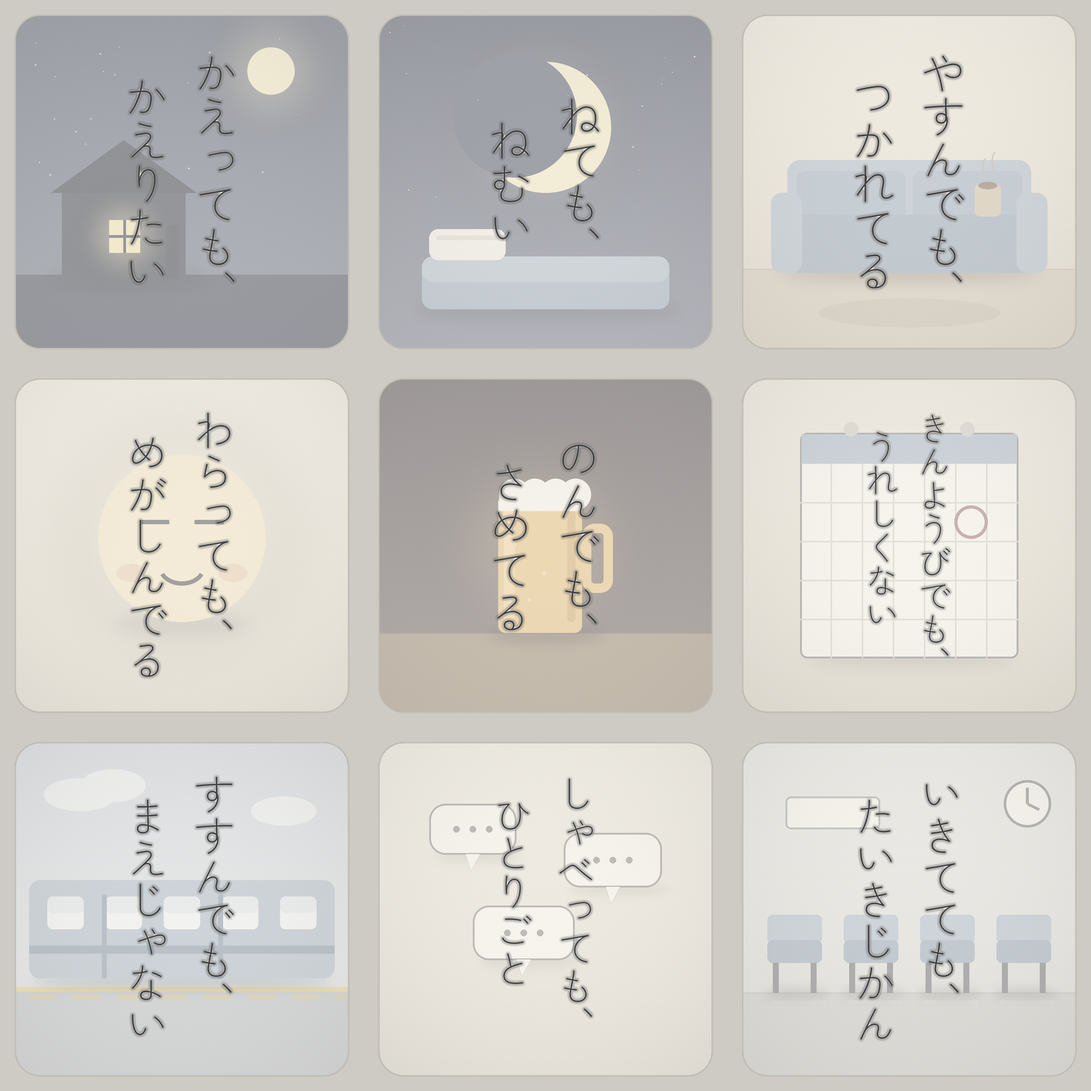
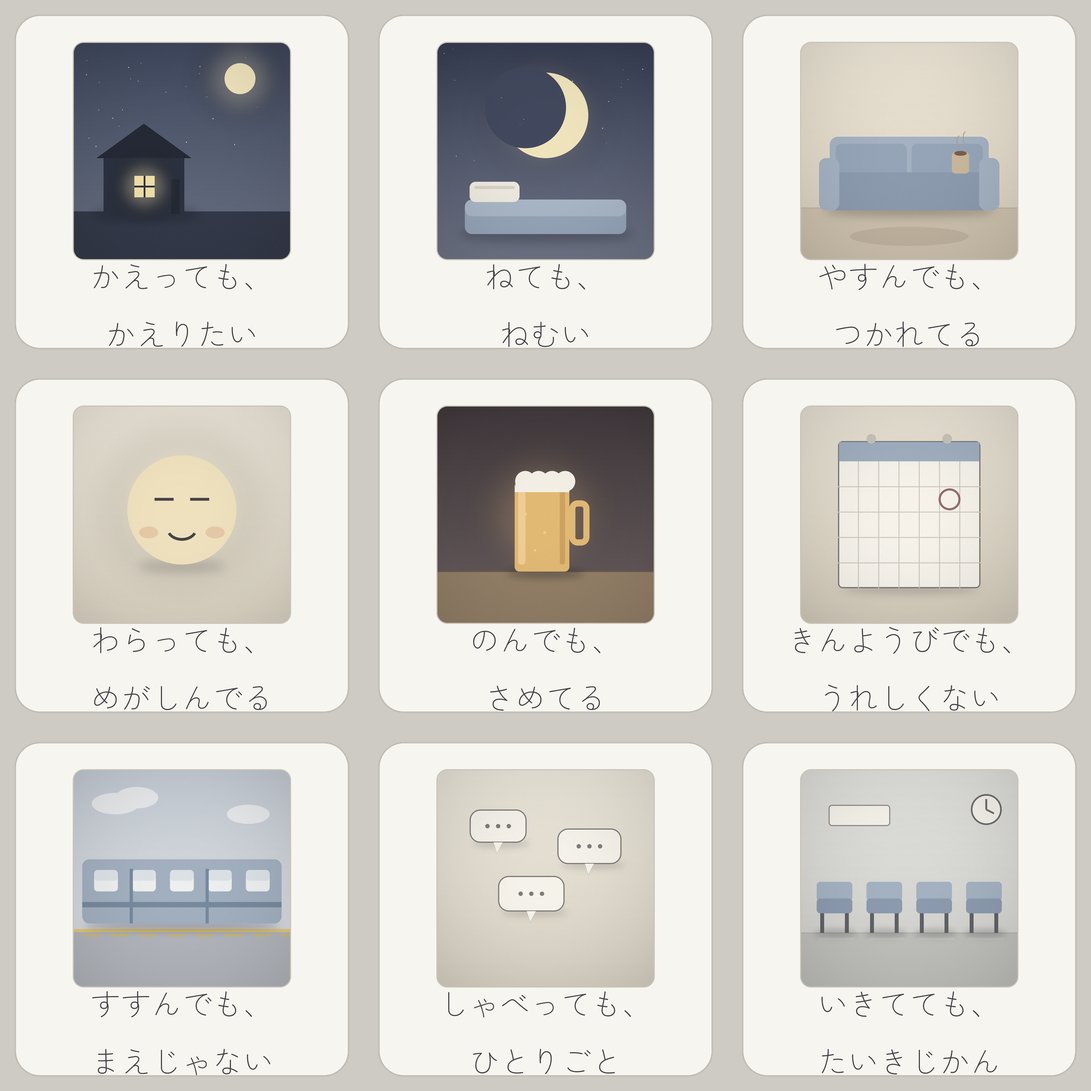
絵と文字を重ねない分離レイアウト版を追加
生成りの角丸台座の上部に情景イラストの角丸窓、下部に
横書き2行の言葉を置くポストカード型。イラストはスクリム
なしの原色で見せる。

Claude-Session: https://claude.ai/code/session_01Hth1TDsqnV3mvtVRGZwAwr

diff --git a/stickers/generate.py b/stickers/generate.py
@@ -2,10 +2,10 @@
 """「〜ても、シリーズ」ステッカー入稿データ生成スクリプト
 
 SUZURI入稿用の透過PNG(2000x2000)を stickers/png/ に出力する。
-デザインはリッチ背景版: 各フレーズに合わせた情景イラストを
-グラデーション・光・影・紙のような粒子感つきで描き、生成りの
-薄いスクリムをかけて縦書き2列の言葉を重ねる。1枚ものなので
-カットラインは外周1本。
+デザインは分離レイアウト版: 生成りの角丸台座の上部に
+情景イラストの角丸窓、下部に横書き2行の言葉を置き、
+絵と文字を重ねない。イラストはスクリムなしの原色で見せる。
+1枚ものなのでカットラインは外周1本。
 フォント: Zen Maru Gothic Light (SIL Open Font License 1.1 / 商用利用可)
 
 使い方:
@@ -26,16 +26,21 @@ FONT_CACHE = os.path.join(os.path.dirname(__file__), "ZenMaruGothic-Light.ttf")
 CANVAS = 2000          # SUZURI推奨の大判サイズ
 COLOR = (66, 66, 68, 255)  # 濃いめのグレー1色(文字)
 
-BASE_SIZE = (1840, 1840)   # 角丸正方形(イラストを見せるため大きめ)
+BASE_SIZE = (1840, 1840)   # 角丸正方形の台座
 BASE_RADIUS = 140
+BASE_FILL = (247, 245, 240, 255)    # 生成り
 BASE_BORDER = (188, 184, 175, 255)
 BASE_BORDER_W = 8
-SCRIM = (247, 245, 240, 132)  # 文字を立たせる生成りの薄がけ
 
-PAD_Y = 170            # 上下端から文字までの最低余白
-MAX_FONT_SIZE = 240    # 短い句が間延びしないよう上限を設ける
-COL_GAP_EM = 1.60      # 右列と左列の中心間隔(フォントサイズ比)
-DROP_EM = 0.55         # 左列(2句目)を下げる量(句のリズム)
+PIC_SIZE = 1200        # 上部のイラスト窓(正方形)の一辺
+PIC_TOP = 150          # 台座上端からイラスト窓までの距離
+PIC_RADIUS = 60
+PIC_BORDER = (200, 195, 184, 255)
+PIC_BORDER_W = 6
+
+TEXT_MAX_WIDTH = 1520  # 下部の文字の最大幅
+MAX_FONT_SIZE = 168    # 文字ゾーンの高さに収まる上限
+LINE_SPACING = 1.30
 
 STICKERS = [
     ("01-kaettemo", "かえっても、かえりたい"),
@@ -310,25 +315,16 @@ def load_font(size):
 
 
 def split_lines(text):
-    # 読点で2句に割る。読点は1句目の末尾に残す(諦めの「間」を作る)
+    # 読点で2行に割る。読点は1行目の末尾に残す(諦めの「間」を作る)
     head, _, tail = text.partition("、")
     return [head + "、", tail]
 
 
-def column_height(draw, line, font):
-    box = draw.textbbox((0, 0), line, font=font, direction="ttb", anchor="mt")
-    return box[3] - box[1]
-
-
-def fit_font_size(draw, lines):
-    max_h = BASE_SIZE[1] - PAD_Y * 2
+def fit_font_size(lines):
     size = MAX_FONT_SIZE
     while size > 10:
         font = load_font(size)
-        drop = int(size * DROP_EM)
-        h1 = column_height(draw, lines[0], font)
-        h2 = column_height(draw, lines[1], font) + drop
-        if max(h1, h2) <= max_h:
+        if max(font.getbbox(line)[2] for line in lines) <= TEXT_MAX_WIDTH:
             return size
         size -= 4
     return size
@@ -336,62 +332,49 @@ def fit_font_size(draw, lines):
 
 def render(slug, text):
     lines = split_lines(text)
+    size = fit_font_size(lines)
+    font = load_font(size)
+
     bw, bh = BASE_SIZE
     bx, by = (CANVAS - bw) // 2, (CANVAS - bh) // 2
 
-    # 情景イラストを描いて質感を足し、角丸に切り抜く
-    scene = finish(SCENES[slug](bw).convert("RGB"), bw)
-    mask = Image.new("L", (bw, bh), 0)
-    ImageDraw.Draw(mask).rounded_rectangle((0, 0, bw, bh), BASE_RADIUS, fill=255)
-
     img = Image.new("RGBA", (CANVAS, CANVAS), (0, 0, 0, 0))
-    img.paste(scene, (bx, by), mask)
-
-    # 生成りのスクリム(文字の可読性を確保しつつイラストを透かす)
-    overlay = Image.new("RGBA", (CANVAS, CANVAS), (0, 0, 0, 0))
-    ImageDraw.Draw(overlay).rounded_rectangle(
-        (bx, by, bx + bw, by + bh), BASE_RADIUS, fill=SCRIM
+    draw = ImageDraw.Draw(img)
+    draw.rounded_rectangle(
+        (bx, by, bx + bw, by + bh),
+        radius=BASE_RADIUS,
+        fill=BASE_FILL,
+        outline=BASE_BORDER,
+        width=BASE_BORDER_W,
     )
-    img = Image.alpha_composite(img, overlay)
 
-    # 縦書き2列の言葉と枠線(透明レイヤーに描いてから合成)
-    top = Image.new("RGBA", (CANVAS, CANVAS), (0, 0, 0, 0))
-    d = ImageDraw.Draw(top)
-    size = fit_font_size(d, lines)
-    font = load_font(size)
-    drop = int(size * DROP_EM)
-    gap = int(size * COL_GAP_EM)
-    h1 = column_height(d, lines[0], font)
-    h2 = column_height(d, lines[1], font) + drop
-    y_top = (CANVAS - max(h1, h2)) // 2
-    # 文字の後ろにほんのり白を敷いて絵と喧嘩させない
-    halo = Image.new("RGBA", (CANVAS, CANVAS), (0, 0, 0, 0))
-    hd = ImageDraw.Draw(halo)
-    for dx in (-3, 0, 3):
-        for dy in (-3, 0, 3):
-            hd.text((CANVAS // 2 + gap // 2 + dx, y_top + dy), lines[0],
-                    font=font, fill=(247, 245, 240, 255), direction="ttb", anchor="mt")
-            hd.text((CANVAS // 2 - gap // 2 + dx, y_top + drop + dy), lines[1],
-                    font=font, fill=(247, 245, 240, 255), direction="ttb", anchor="mt")
-    halo = halo.filter(ImageFilter.GaussianBlur(6))
-    img = Image.alpha_composite(img, halo)
-    # 縦書きは右列から読むので、1句目を右・2句目を左に置く
-    d.text((CANVAS // 2 + gap // 2, y_top),
-           lines[0], font=font, fill=COLOR, direction="ttb", anchor="mt")
-    d.text((CANVAS // 2 - gap // 2, y_top + drop),
-           lines[1], font=font, fill=COLOR, direction="ttb", anchor="mt")
-    d.rounded_rectangle((bx, by, bx + bw, by + bh), BASE_RADIUS,
-                        outline=BASE_BORDER, width=BASE_BORDER_W)
-    img = Image.alpha_composite(img, top)
-
-    # 文字ハロのボカシが台座の外へ漏れた分を切り落とす
-    outer = Image.new("L", (CANVAS, CANVAS), 0)
-    ImageDraw.Draw(outer).rounded_rectangle(
-        (bx, by, bx + bw, by + bh), BASE_RADIUS, fill=255
+    # 上部: 情景イラストの角丸窓(文字とは重ねない)
+    scene = finish(SCENES[slug](bw).convert("RGB"), bw).resize(
+        (PIC_SIZE, PIC_SIZE), Image.LANCZOS
     )
-    r, g, b, a = img.split()
-    a = Image.composite(a, Image.new("L", (CANVAS, CANVAS), 0), outer)
-    img = Image.merge("RGBA", (r, g, b, a))
+    mask = Image.new("L", (PIC_SIZE, PIC_SIZE), 0)
+    ImageDraw.Draw(mask).rounded_rectangle(
+        (0, 0, PIC_SIZE, PIC_SIZE), PIC_RADIUS, fill=255
+    )
+    px = (CANVAS - PIC_SIZE) // 2
+    py = by + PIC_TOP
+    img.paste(scene, (px, py), mask)
+    draw.rounded_rectangle(
+        (px, py, px + PIC_SIZE, py + PIC_SIZE), PIC_RADIUS,
+        outline=PIC_BORDER, width=PIC_BORDER_W,
+    )
+
+    # 下部: 横書き2行の言葉(イラスト窓の下端と台座下端の中間に置く)
+    ascent, descent = font.getmetrics()
+    line_height = int((ascent + descent) * LINE_SPACING)
+    total_height = line_height * (len(lines) - 1) + ascent + descent
+    zone_top = py + PIC_SIZE
+    zone_bottom = by + bh - BASE_BORDER_W
+    y = zone_top + (zone_bottom - zone_top - total_height) // 2
+    for line in lines:
+        w = draw.textlength(line, font=font)
+        draw.text(((CANVAS - w) // 2, y), line, font=font, fill=COLOR)
+        y += line_height
 
     out_dir = os.path.join(os.path.dirname(__file__), "png")
     os.makedirs(out_dir, exist_ok=True)
